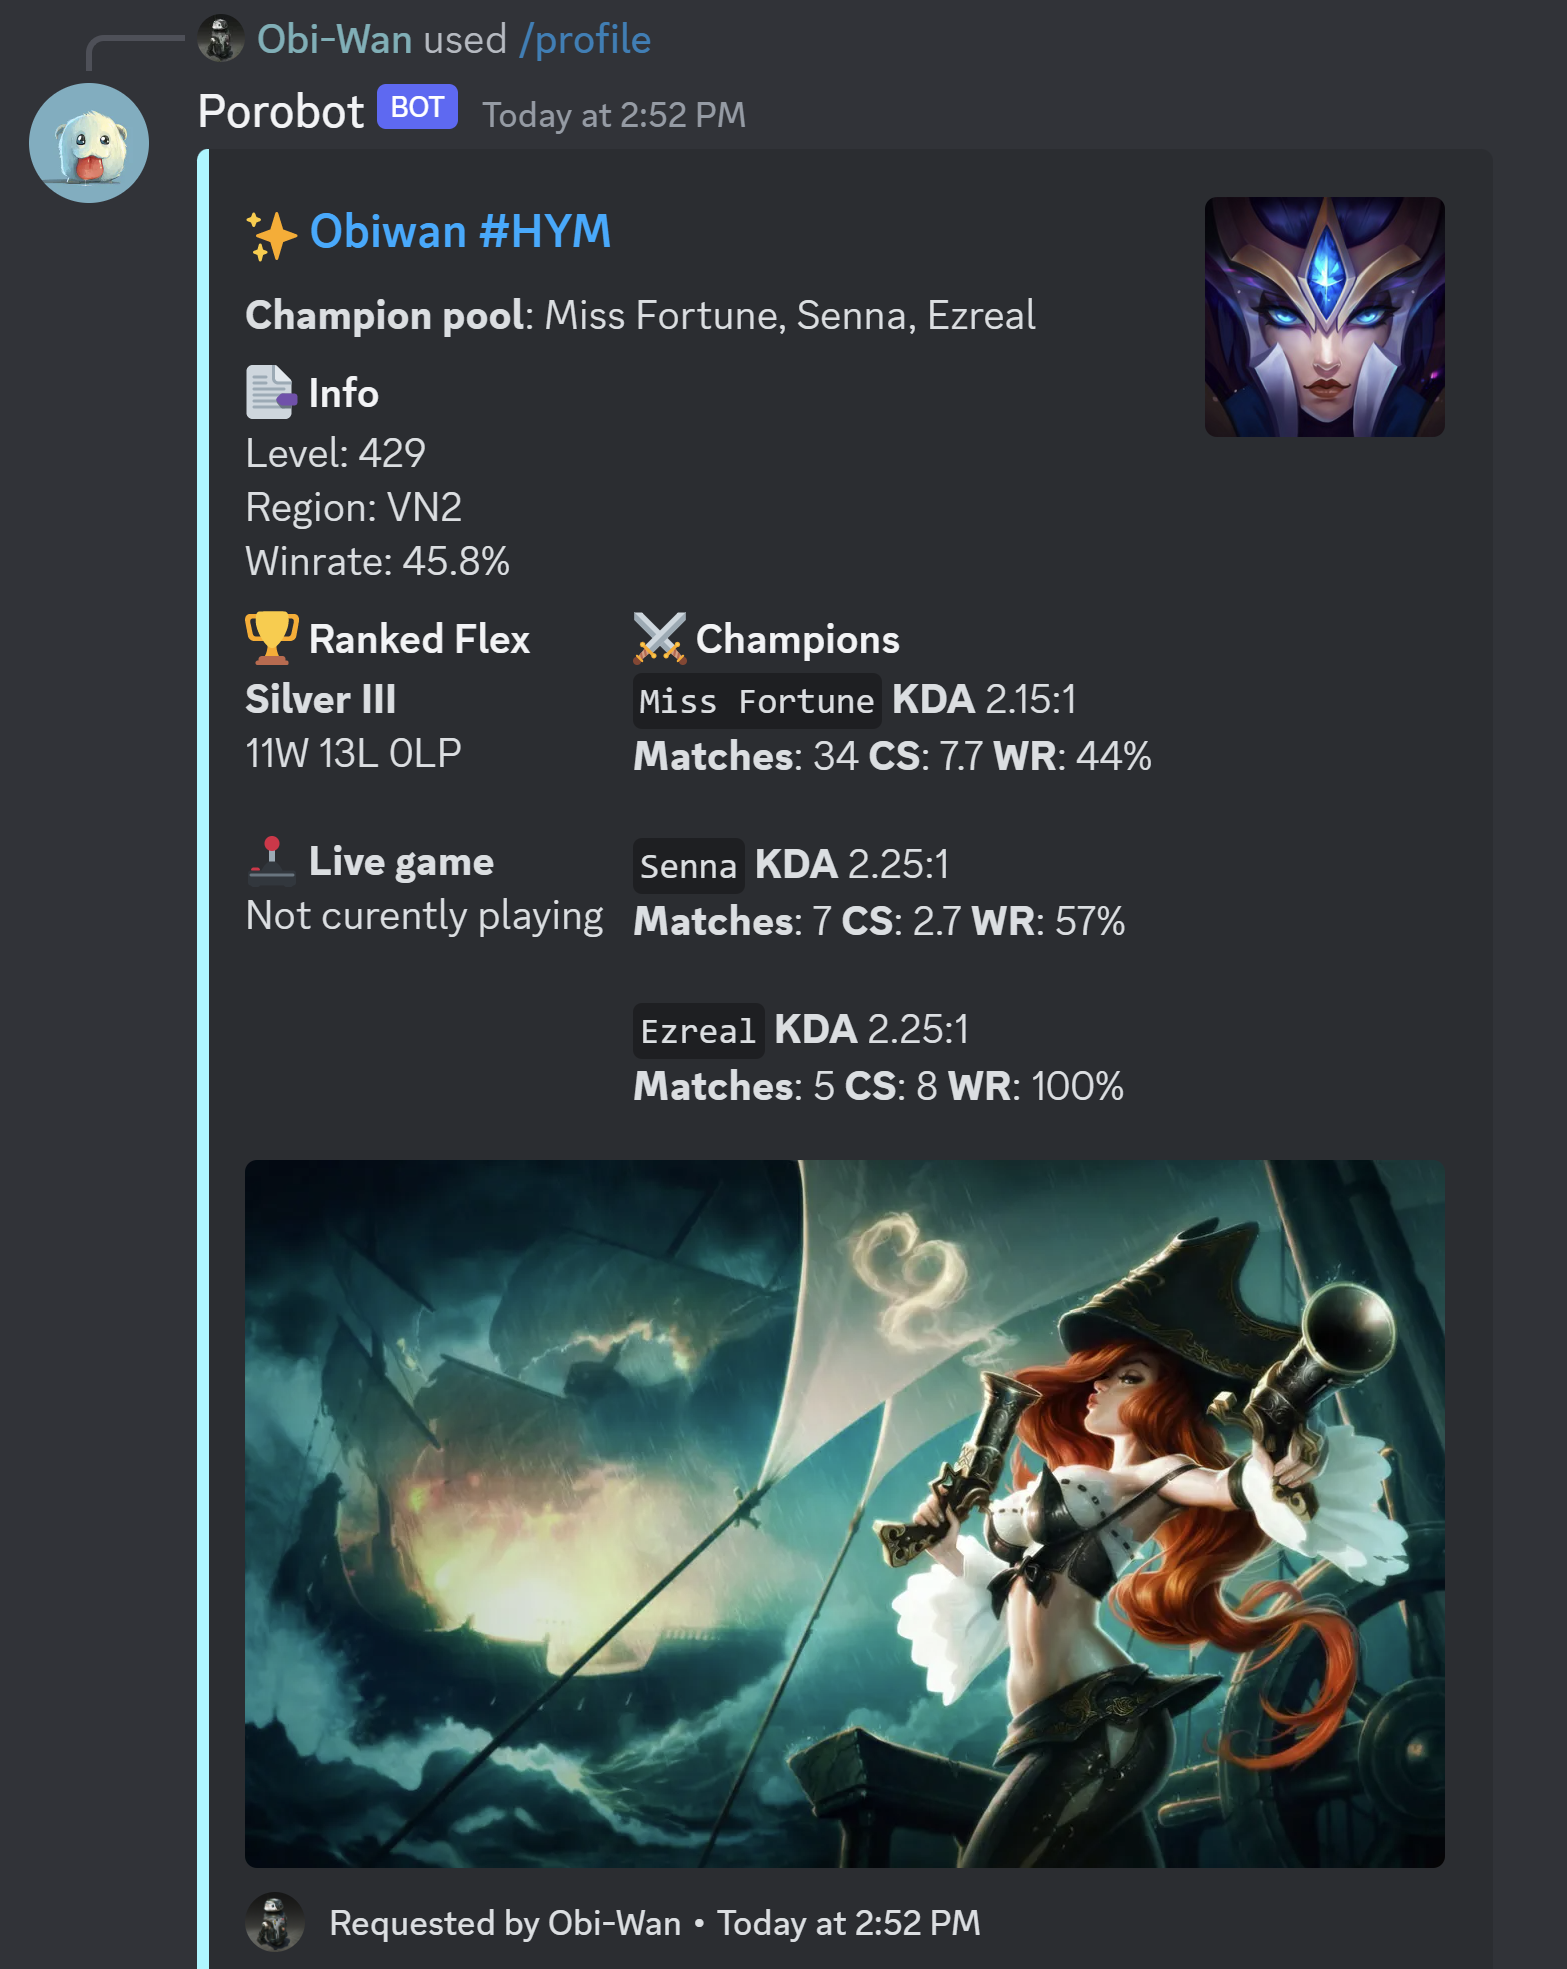
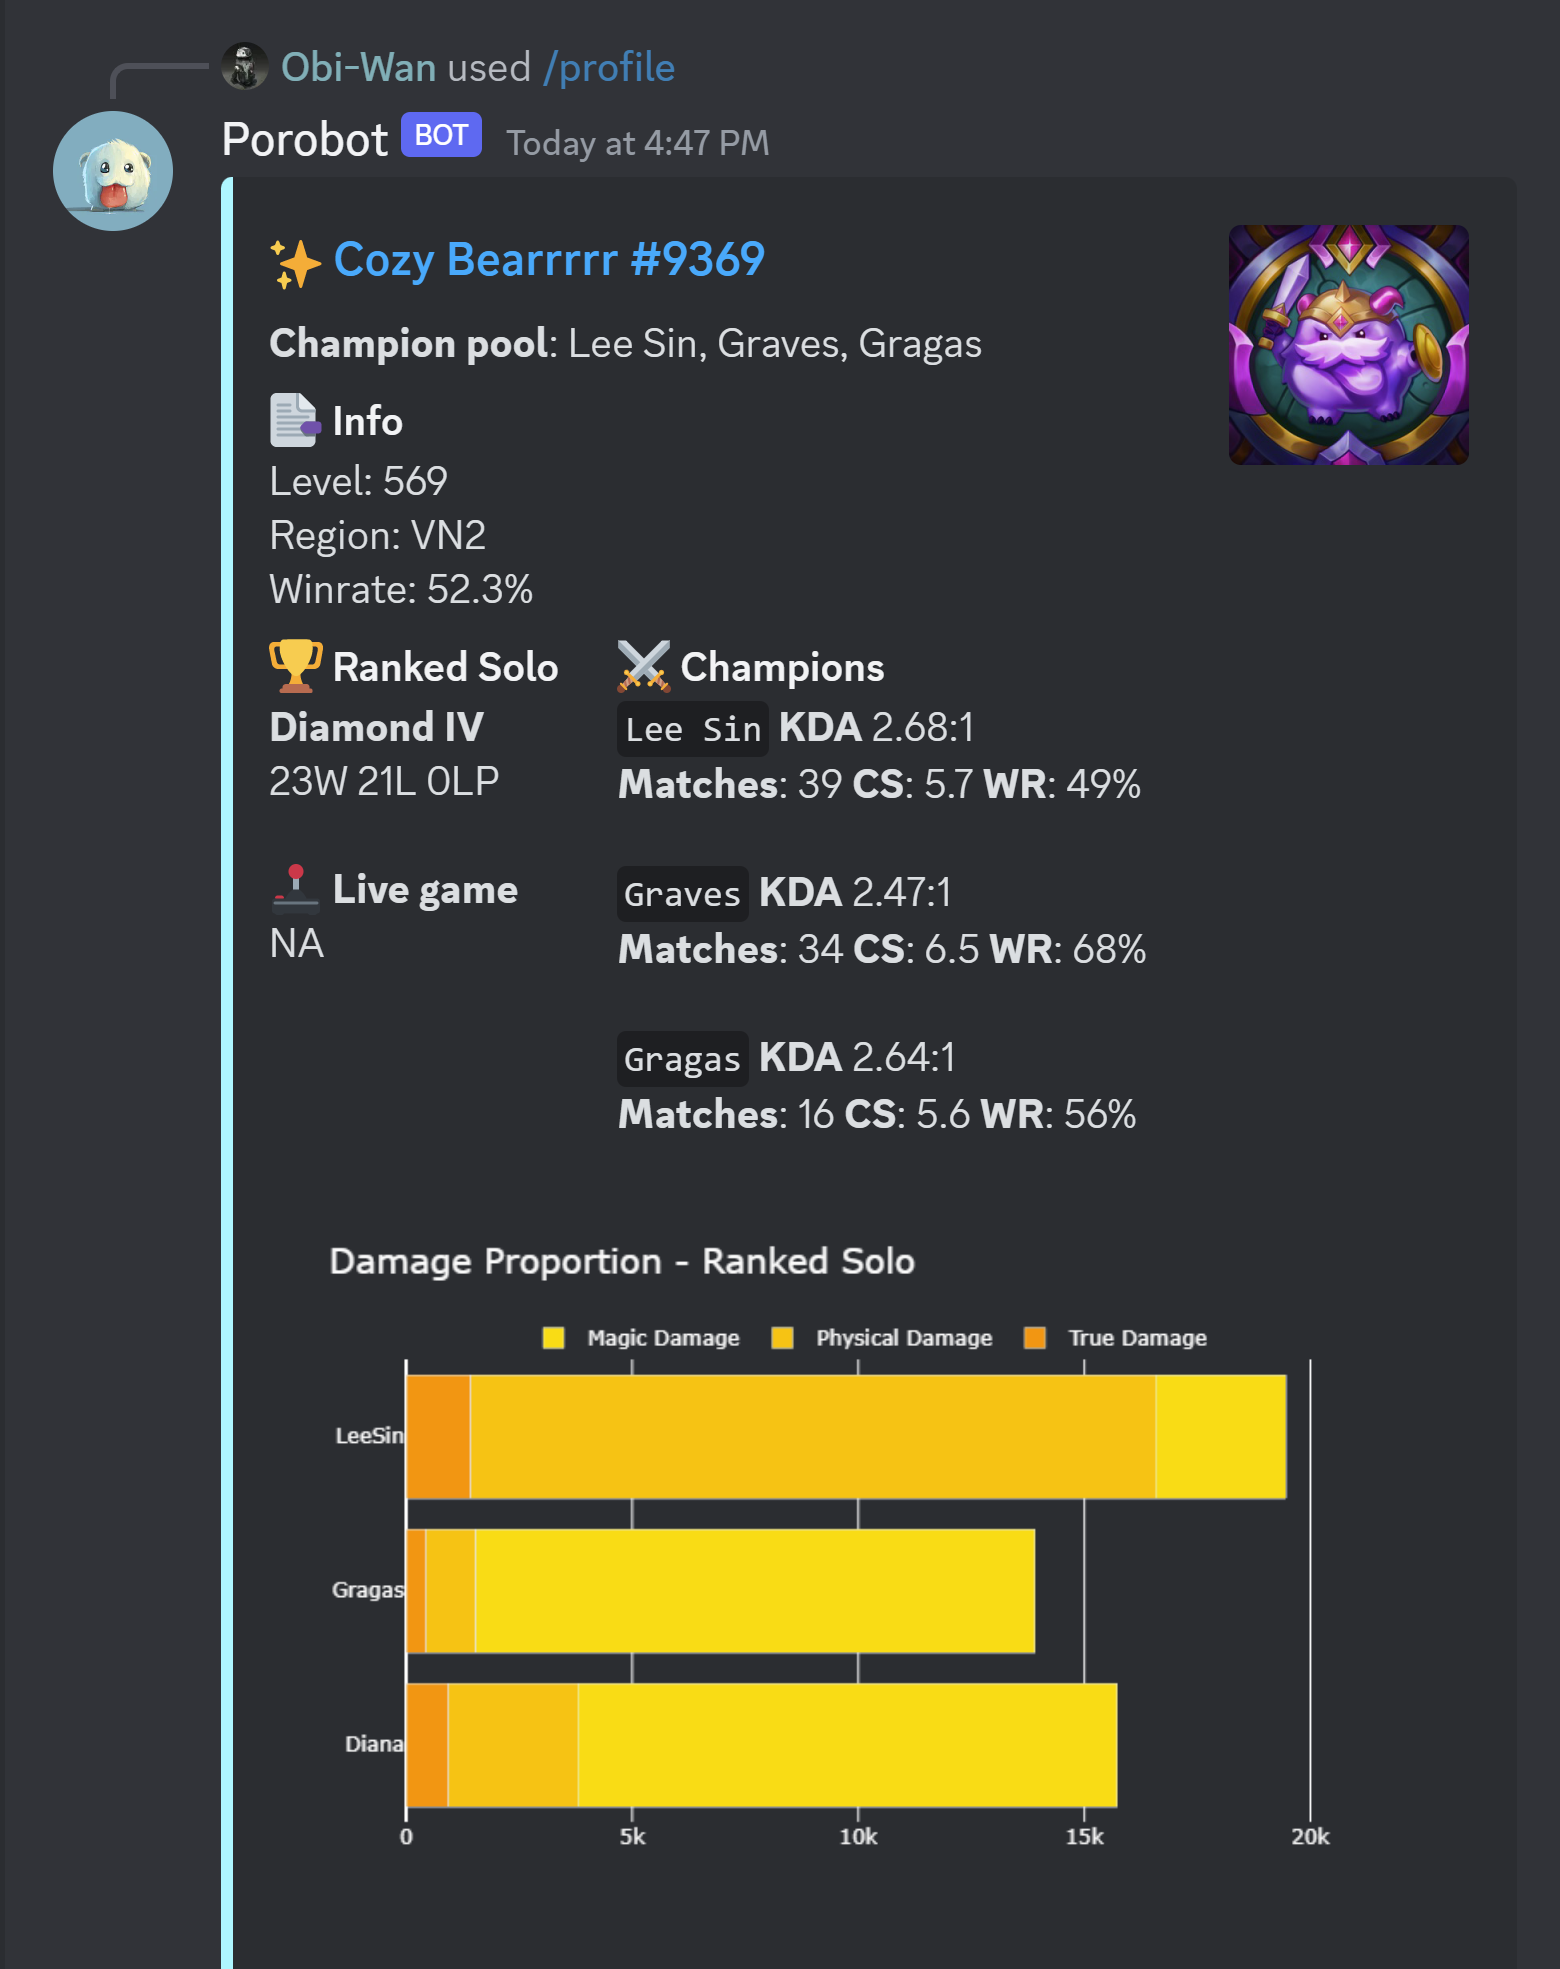
docs(readme): add badges

diff --git a/bot/utils/embed.py b/bot/utils/embed.py
@@ -7,6 +7,7 @@ import hikari
 import requests
 from bs4 import BeautifulSoup
 from datetime import datetime
+import plotly.graph_objects as go
 
 
 def get_patch_notes(url: str):
@@ -57,7 +58,7 @@ def profile_embed(summoner, rank, region, url, champs, name, tag) -> hikari.Embe
         text = (f"**{rank['tier'].capitalize()} {rank['rank']}**\n"
                 f"{rank['wins']}W {rank['losses']}L {rank['leaguePoints']}LP\n\n"
                 f"🕹 **Live game**\n"
-                f"Not curently playing")
+                f"NA")
     embed = (
         hikari.Embed(
             title=f"✨ {name} #{tag}",
@@ -133,3 +134,31 @@ def build_embed(champion, header,  url,  runes, items):
         .set_thumbnail(f"https://ddragon.leagueoflegends.com/cdn/14.4.1/img/champion/{champion.title().replace(' ', '')}.png"))
 
     return embed
+
+
+def graph_dmgproportion(names, trues, physicals, magics):
+    fig = go.Figure()
+
+    damage_types = ['True Damage', 'Physical Damage', 'Magic Damage']
+    colors = ['#ff9500', '#ffc300', '#ffdd00']
+
+    for damage_type, color in zip(damage_types, colors):
+        fig.add_trace(go.Bar(
+            y=names,
+            x=trues if damage_type == 'True Damage' else (
+                physicals if damage_type == 'Physical Damage' else magics),
+            name=damage_type,
+            orientation='h',
+            marker=dict(color=color),
+            hovertemplate='%{x:,.0f}'
+        ))
+
+    fig.update_layout(title='Damage Proportion - Ranked Solo', barmode='stack', title_font_size=20,
+                      title_font_color='#FAFAFA', height=450,
+                      paper_bgcolor='rgba(0,0,0,0)', plot_bgcolor='rgba(0,0,0,0)',
+                      legend=dict(orientation="h", yanchor="top", xanchor="center", x=0.5, y=1.1,
+                                  font_color="#fafafa"))
+    
+    fig.update_yaxes(showgrid=False, title=None, tickfont=dict(color='#FAFAFA'))
+    fig.update_xaxes(title=None, tickfont=dict(color='#FAFAFA'))
+    fig.write_image("temp.png")

diff --git a/bot/extensions/league.py b/bot/extensions/league.py
@@ -65,19 +65,47 @@ async def profile(ctx: lightbulb.Context) -> None:
     rank = get_rank(KEY, info, region)[0]
     champions = get_champions(summoner, tag)
 
+    match_ids = get_match_ids(KEY, puuid, 10, 420)
+    msg = await plugin.bot.rest.create_message(CHANNEL, "...")
+
+    matches = []
+    player = []
+    count = 0
+    total = len(match_ids)
+    for match_id in match_ids:
+        match_data = get_match_data(KEY, match_id)
+        player_data = find_player_data(match_data, puuid)
+        matches.append(match_data['info'])
+        player.append(player_data)
+
+        await msg.edit(progress_bar(count/total))
+        count += 1
+    await msg.edit("Done")
+
+    df = pd.json_normalize(player)
+    tru = df.groupby('championName')['trueDamageDealtToChampions'].mean().to_dict()
+    phy = df.groupby('championName')['physicalDamageDealtToChampions'].mean().to_dict()
+    mag = df.groupby('championName')['magicDamageDealtToChampions'].mean().to_dict()
+
+    names = list(tru.keys())
+    physicals = list(phy.values())
+    trues = list(tru.values())
+    magics = list(mag.values())
+    graph_dmgproportion(names, trues, physicals, magics)
+
     embed = profile_embed(
         info, rank, region, url,
         champions[:3], summoner, tag
     ).set_footer(
         text=f"Requested by {ctx.member.display_name}",
         icon=ctx.member.avatar_url
-    )
+    ).set_image("temp.png")
 
     await ctx.respond(embed)
 
 
 @plugin.command()
-@lightbulb.option('champion', 'Champion name')
+@lightbulb.option('champion', 'Champion name (separated by space if name contains two words)')
 @lightbulb.command('build', 'Champion build', auto_defer=True)
 @lightbulb.implements(lightbulb.SlashCommand)
 async def build(ctx: lightbulb.Context):

diff --git a/README.md b/README.md
@@ -6,7 +6,7 @@
 ![Discord](https://img.shields.io/badge/Discord-%235865F2.svg?style=for-the-badge&logo=discord&logoColor=white)
 ![Riot Games](https://img.shields.io/badge/riotgames-D32936.svg?style=for-the-badge&logo=riotgames&logoColor=white)
 
-**Update** (12 July 2023): Invite Porobot to your discord server at [Porobot](https://nauqh.github.io/Porodocs/)
+**Update** (12 July 2023): Invite Porobot to your discord server at [Porobot](https://nauqh.github.io/porodocs/)
 
 ## About the project
 
@@ -29,7 +29,7 @@ In short, it allows you to:
   <img width="400" src="./img/build.png">
 </div>
 
-## Porobot Techstack 101
+## Techstack
 The repository structure follows the conceptual architecture of Porobot, which consists of four loosely-coupled sub-systems.
 
 To briefly explain these four sub-systems:
